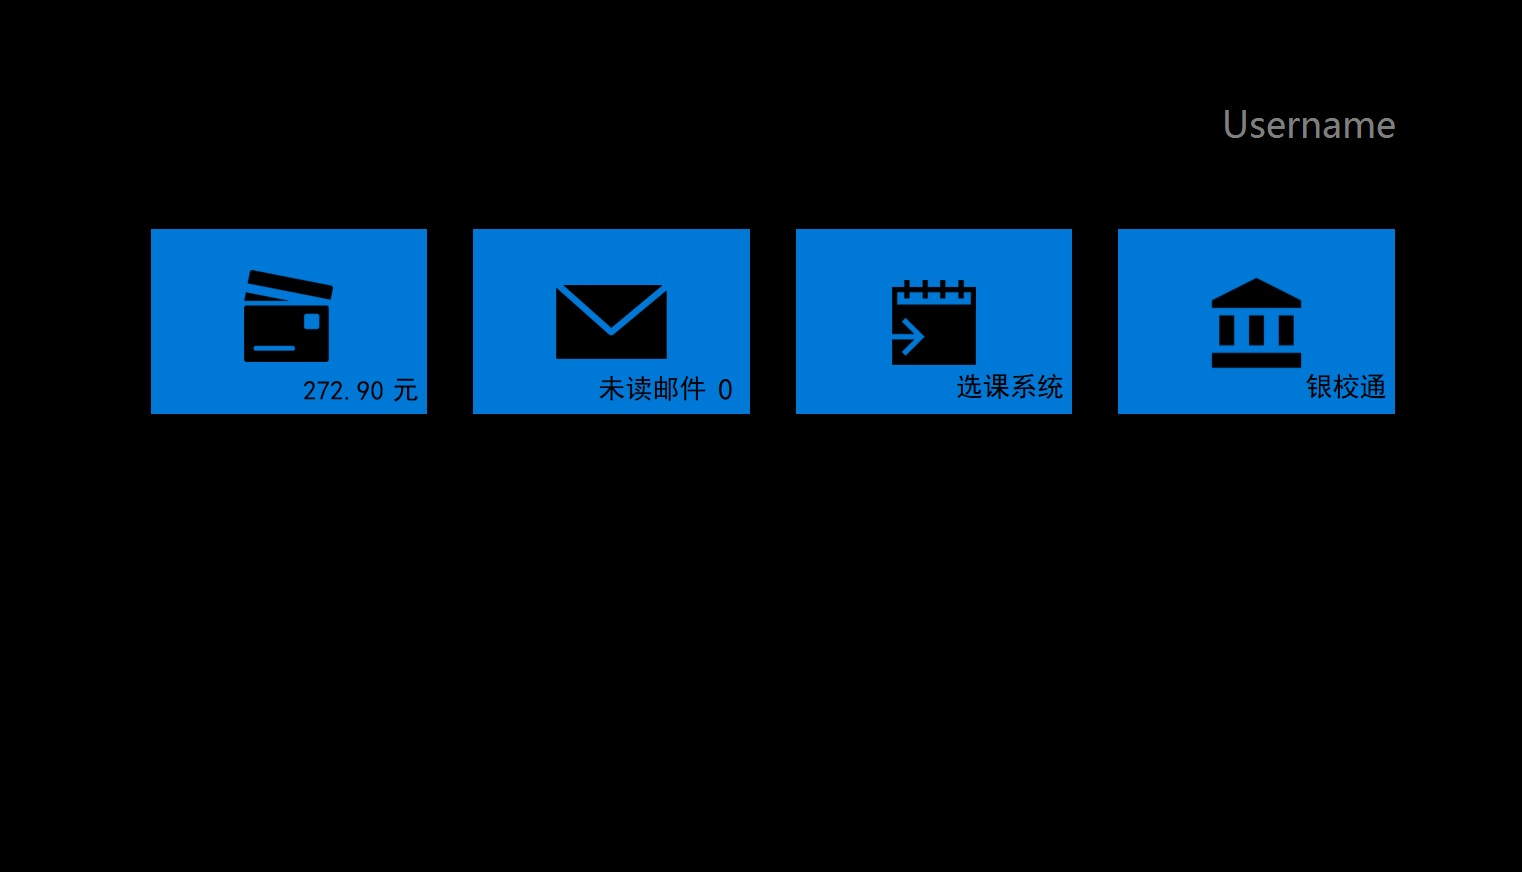
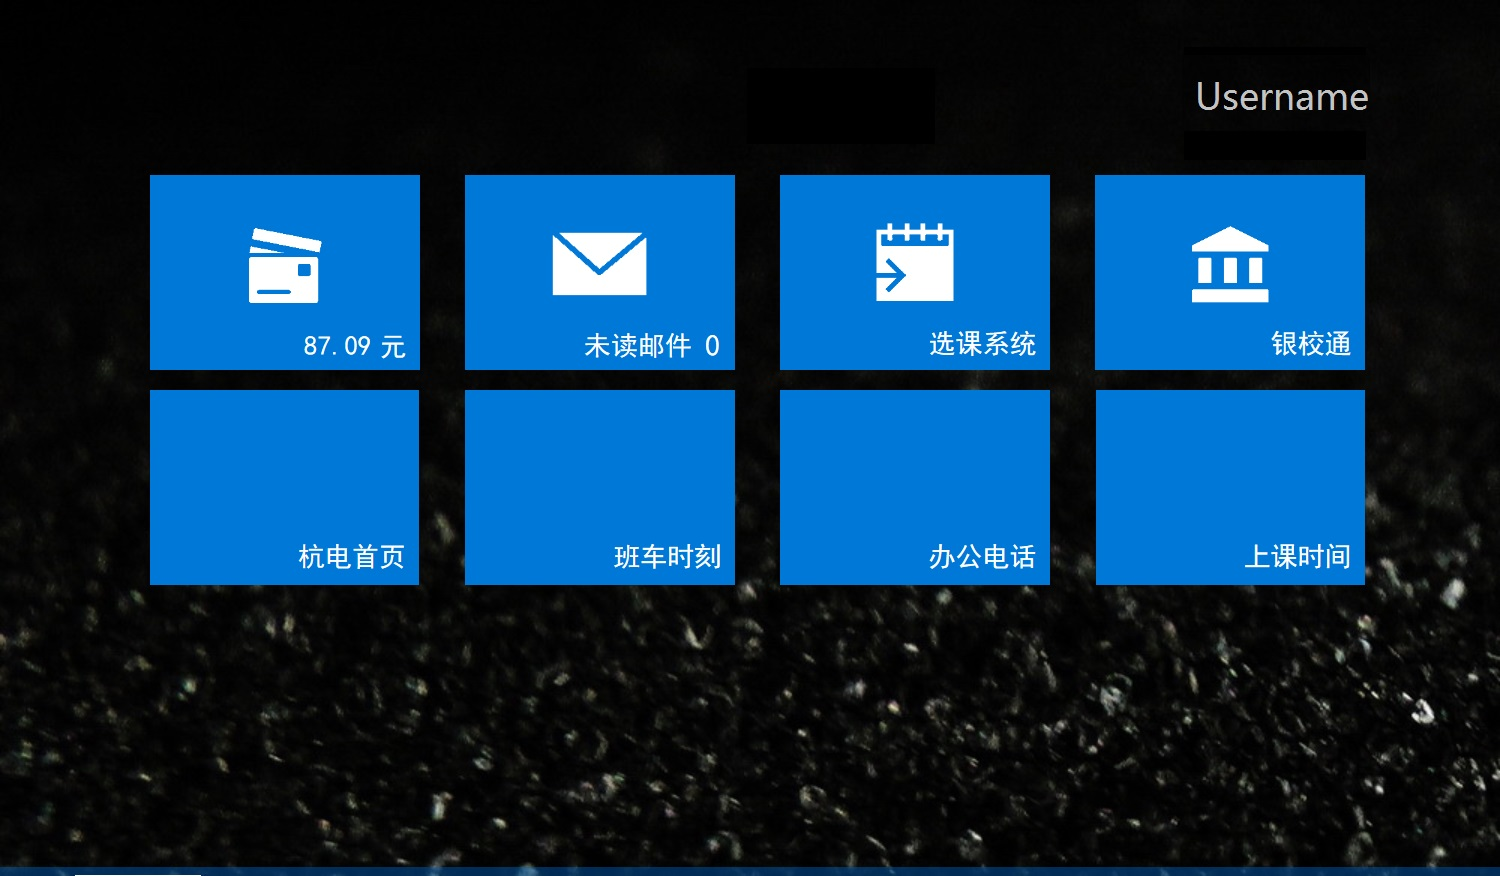
小小的修复与更新
修复:
自定义图片无效
删除了无用图片

新增:
自定义用户名颜色
一张背景图片
更新 preview

diff --git a/Modern iHdu.css b/Modern iHdu.css
@@ -70,7 +70,7 @@
   
   body{
     background-color: #333333;
-    background-image: url(http://pic.sucaibar.com/pic/201307/19/9ac1babed4.jpg);
+    background-image: url(/*[[picurl]]*/);
 /*     background-repeat: no-repeat; */
 /*     background-size: 75%; */
     margin: 0px;
@@ -488,7 +488,7 @@
   .user_name a{
     text-decoration: none;
     font-weight: normal;
-    color: #aaaaaa !important;
+    color: /*[[namecolor]]*/ !important;
     font-size: 200%;
     position: fixed;
     top:8%;

diff --git a/Modern iHdu Defult.css b/Modern iHdu Defult.css
@@ -492,7 +492,7 @@
   .user_name a{
     text-decoration: none;
     font-weight: normal;
-    color: #aaaaaa !important;
+    color: #AAAAAA !important;
     font-size: 200%;
     position: fixed;
     top:8%;
